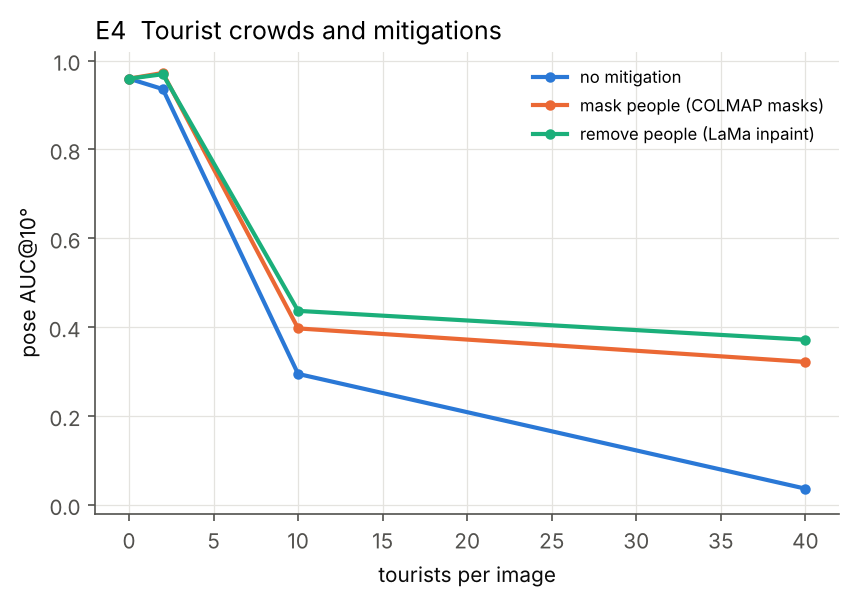
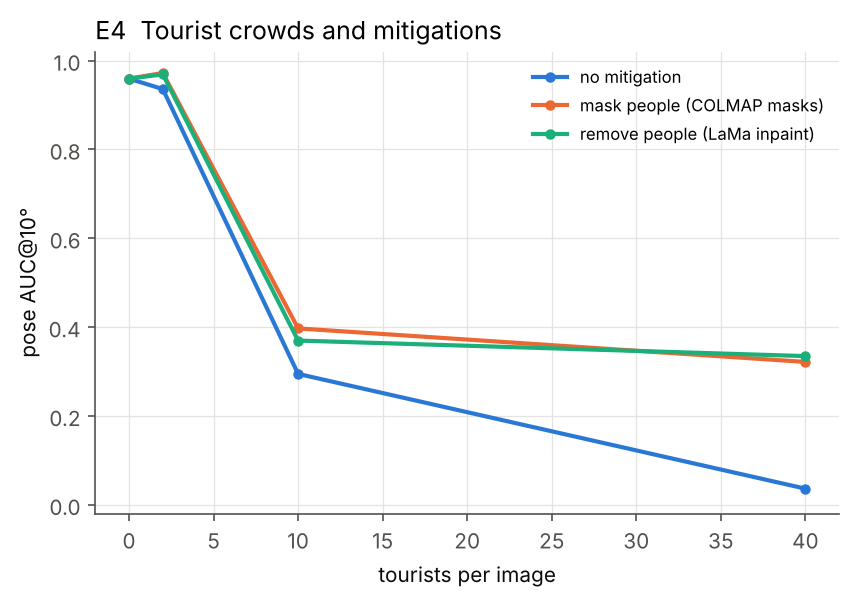
Update generative results
Claude-Session: https://claude.ai/code/session_01DwFUuxyVwkhujN2CBgQS9g

Changed region(s): [[0.2131, 0.1794, 0.9742, 0.598], [0.1827, 0.1495, 0.2131, 0.1794]]

diff --git a/results/summary.md b/results/summary.md
@@ -53,12 +53,12 @@ Metric: pose AUC@10° over all input image pairs (unregistered = failure) and re
 | blackout | 1 | 6 | 0.969 [0.96, 0.97] | 1.000 [1.00, 1.00] |
 | blackout | 3 | 6 | 0.482 [0.42, 0.54] | 0.711 [0.66, 0.76] |
 | blackout | 5 | 6 | 0.222 [0.12, 0.35] | 0.468 [0.35, 0.60] |
-| inpaint_lama | 1 | 3 | 0.972 [0.97, 0.98] | 1.000 [1.00, 1.00] |
-| inpaint_lama | 3 | 3 | 0.466 [0.26, 0.57] | 0.695 [0.53, 0.78] |
-| inpaint_lama | 5 | 3 | 0.342 [0.08, 0.48] | 0.580 [0.30, 0.72] |
-| regen_esrgan | 1 | 3 | 0.427 [0.11, 0.60] | 0.772 [0.38, 0.98] |
-| regen_esrgan | 3 | 3 | 0.265 [0.06, 0.38] | 0.520 [0.30, 0.64] |
-| regen_esrgan | 5 | 3 | 0.022 [0.01, 0.05] | 0.163 [0.12, 0.25] |
+| inpaint_lama | 1 | 4 | 0.974 [0.97, 0.98] | 1.000 [1.00, 1.00] |
+| inpaint_lama | 3 | 4 | 0.458 [0.34, 0.57] | 0.690 [0.59, 0.78] |
+| inpaint_lama | 5 | 4 | 0.284 [0.09, 0.47] | 0.522 [0.32, 0.72] |
+| regen_esrgan | 1 | 4 | 0.353 [0.12, 0.58] | 0.704 [0.44, 0.97] |
+| regen_esrgan | 3 | 4 | 0.214 [0.06, 0.37] | 0.459 [0.29, 0.63] |
+| regen_esrgan | 5 | 4 | 0.018 [0.01, 0.04] | 0.185 [0.12, 0.25] |
 
 
 ## E1s  Synthetic weather incl. desert
@@ -98,11 +98,11 @@ Metric: pose AUC@10° over all input image pairs (unregistered = failure) and re
 |---|---|---|---|---|
 | 4 | bicubic | 6 | 0.313 [0.18, 0.45] | 0.548 [0.41, 0.68] |
 | 4 | lowres | 6 | 0.023 [0.01, 0.04] | 0.125 [0.04, 0.21] |
-| 4 | realesrgan | 2 | 0.113 [0.05, 0.17] | 0.345 [0.25, 0.44] |
+| 4 | realesrgan | 3 | 0.131 [0.05, 0.17] | 0.377 [0.25, 0.44] |
 | 4 | unsharp_bicubic | 6 | 0.320 [0.18, 0.46] | 0.555 [0.42, 0.69] |
 | 8 | bicubic | 6 | 0.026 [0.01, 0.04] | 0.145 [0.07, 0.21] |
 | 8 | lowres | 6 | 0.000 [0.00, 0.00] | 0.037 [0.01, 0.06] |
-| 8 | realesrgan | 2 | 0.000 [0.00, 0.00] | 0.020 [0.00, 0.04] |
+| 8 | realesrgan | 3 | 0.000 [0.00, 0.00] | 0.027 [0.00, 0.04] |
 | 8 | unsharp_bicubic | 6 | 0.051 [0.05, 0.05] | 0.245 [0.24, 0.25] |
 
 
@@ -112,9 +112,9 @@ Metric: pose AUC@10° over all input image pairs (unregistered = failure) and re
 
 | mitigation | severity | n | auc@10 | reg_frac |
 |---|---|---|---|---|
-| lama_remove | 1 | 3 | 0.969 [0.97, 0.97] | 1.000 [1.00, 1.00] |
-| lama_remove | 3 | 2 | 0.437 [0.27, 0.61] | 0.838 [0.68, 1.00] |
-| lama_remove | 5 | 2 | 0.372 [0.22, 0.53] | 0.805 [0.65, 0.96] |
+| lama_remove | 1 | 4 | 0.969 [0.97, 0.97] | 1.000 [1.00, 1.00] |
+| lama_remove | 3 | 4 | 0.370 [0.20, 0.54] | 0.729 [0.56, 0.92] |
+| lama_remove | 5 | 4 | 0.335 [0.17, 0.50] | 0.713 [0.56, 0.88] |
 | mask | 1 | 6 | 0.972 [0.97, 0.98] | 1.000 [1.00, 1.00] |
 | mask | 3 | 6 | 0.397 [0.28, 0.51] | 0.731 [0.62, 0.85] |
 | mask | 5 | 6 | 0.322 [0.22, 0.42] | 0.681 [0.65, 0.71] |
@@ -135,11 +135,11 @@ Metric: pose AUC@10° over all input image pairs (unregistered = failure) and re
 | crowd | 0.500 | 6 | 0.298 [0.16, 0.42] | 0.859 [0.73, 0.97] |
 | crowd | 0.750 | 6 | 0.126 [0.07, 0.18] | 0.934 [0.89, 0.97] |
 | crowd | 1.000 | 6 | 0.023 [0.01, 0.04] | 0.966 [0.91, 1.00] |
-| inpaint_lama | 0.100 | 2 | 0.964 [0.96, 0.97] | 1.000 [1.00, 1.00] |
-| inpaint_lama | 0.250 | 2 | 0.924 [0.87, 0.98] | 1.000 [1.00, 1.00] |
-| inpaint_lama | 0.500 | 2 | 0.950 [0.94, 0.96] | 1.000 [1.00, 1.00] |
-| inpaint_lama | 0.750 | 2 | 0.404 [0.24, 0.57] | 0.640 [0.50, 0.78] |
-| inpaint_lama | 1.000 | 2 | 0.482 [0.39, 0.57] | 0.715 [0.65, 0.78] |
+| inpaint_lama | 0.100 | 3 | 0.967 [0.96, 0.97] | 1.000 [1.00, 1.00] |
+| inpaint_lama | 0.250 | 3 | 0.940 [0.87, 0.98] | 1.000 [1.00, 1.00] |
+| inpaint_lama | 0.500 | 3 | 0.949 [0.94, 0.96] | 1.000 [1.00, 1.00] |
+| inpaint_lama | 0.750 | 3 | 0.455 [0.24, 0.57] | 0.687 [0.50, 0.78] |
+| inpaint_lama | 1.000 | 3 | 0.512 [0.39, 0.57] | 0.737 [0.65, 0.78] |
 | motion_blur | 0.100 | 6 | 0.599 [0.43, 0.73] | 0.829 [0.75, 0.90] |
 | motion_blur | 0.250 | 6 | 0.285 [0.13, 0.44] | 0.508 [0.34, 0.67] |
 | motion_blur | 0.500 | 6 | 0.028 [0.01, 0.06] | 0.162 [0.10, 0.23] |
